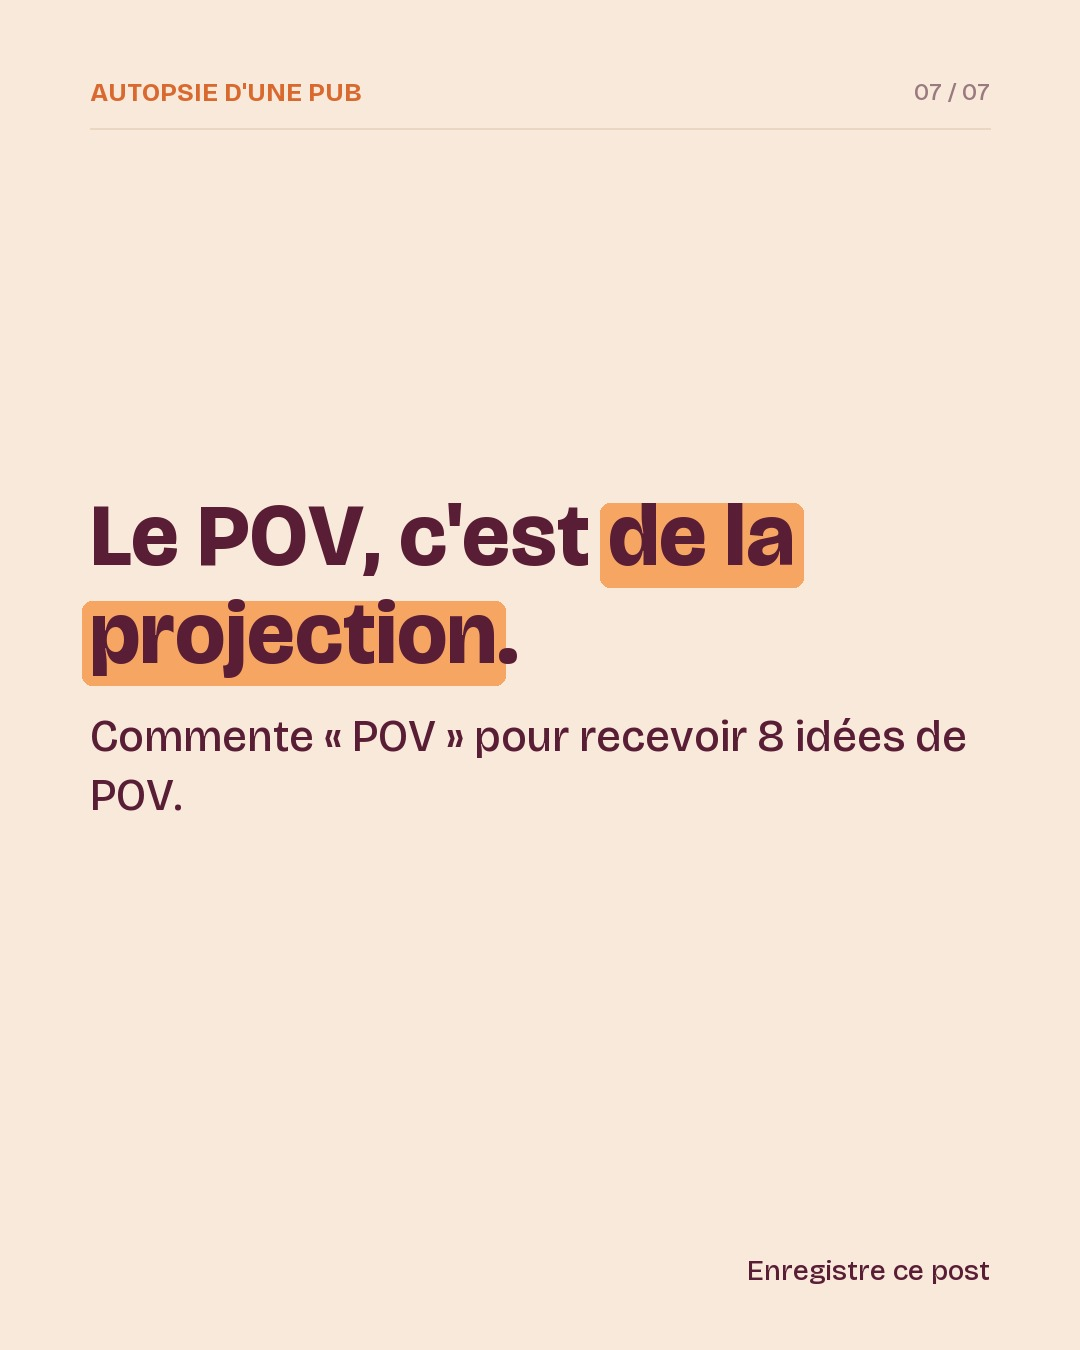
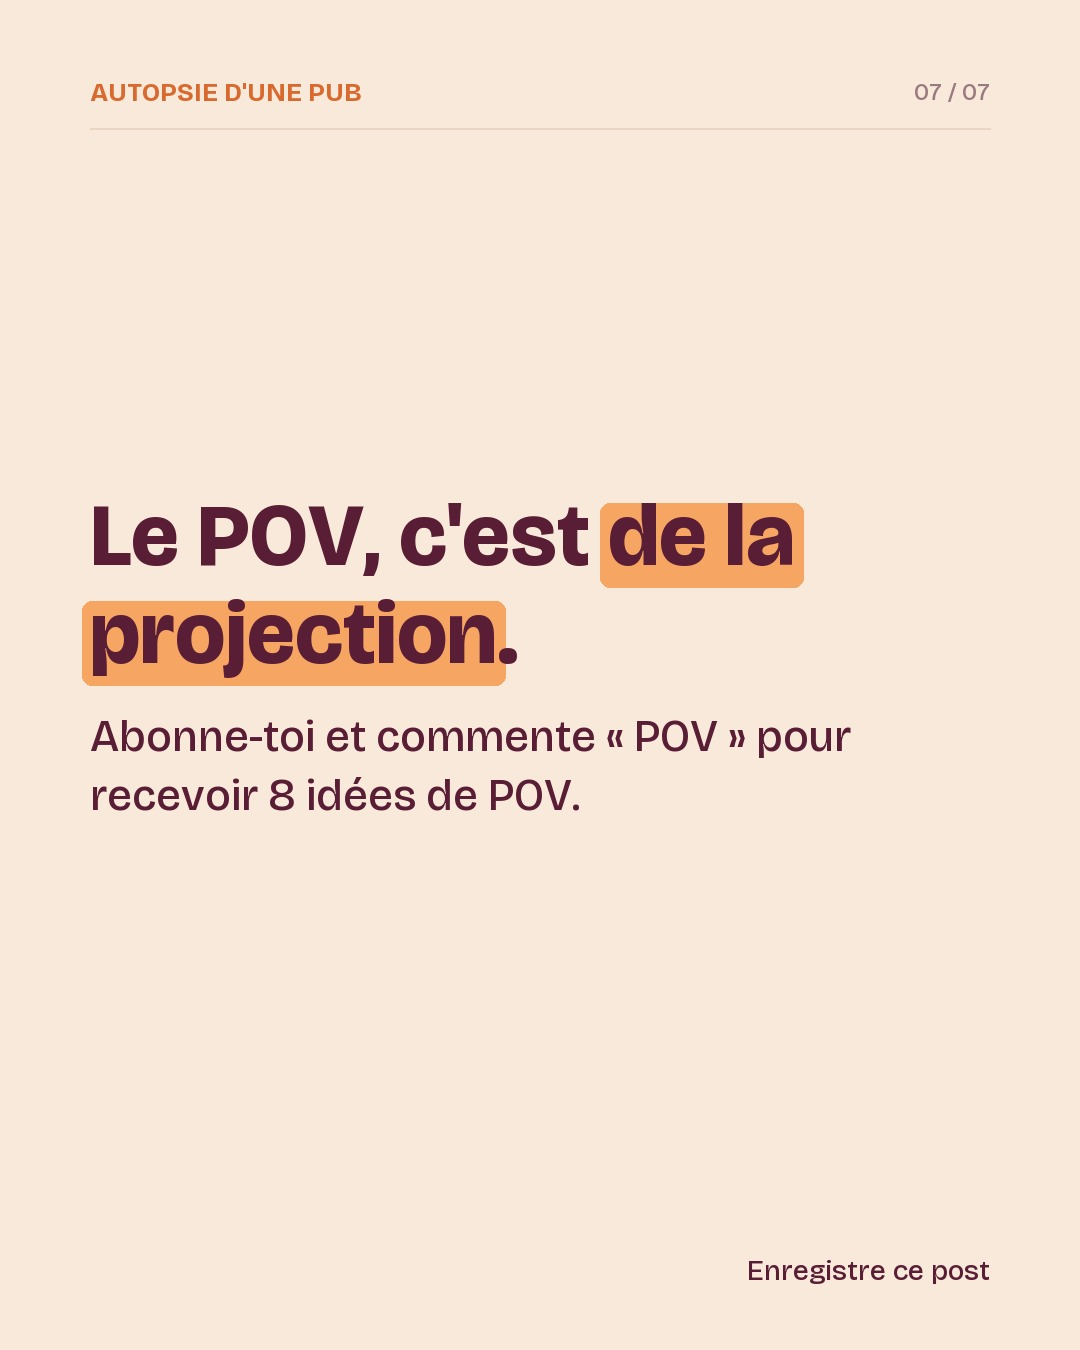
Appel à s'abonner dans les slides, légendes et réponses

Changed region(s): [[0.0611, 0.5289, 0.8861, 0.6222]]

diff --git a/publier_instagram.py b/publier_instagram.py
@@ -49,9 +49,9 @@ DEPOT_PUBLIC = "adelbadsi0-afk/ak-ugc-instagram"
 VISUELS_URL = f"https://raw.githubusercontent.com/{DEPOT_PUBLIC}/main/visuels"
 JOURS_REPONSES = 7   # Meta n'autorise la réponse privée que dans les 7 jours suivant le commentaire
 REPONSES_PUBLIQUES = [
-    "C'est dans tes messages 💌",
-    "Envoyé en message ✨",
-    "Regarde tes messages 📩 (ou tes demandes de message)",
+    "C'est dans tes messages 💌 Abonne-toi pour ne rien rater de la suite !",
+    "Envoyé en message ✨ (pas reçu ? regarde dans tes demandes de message)",
+    "Regarde tes messages 📩 Et abonne-toi pour la suite du Labo !",
     "C'est parti dans tes messages 💌",
 ]
 
